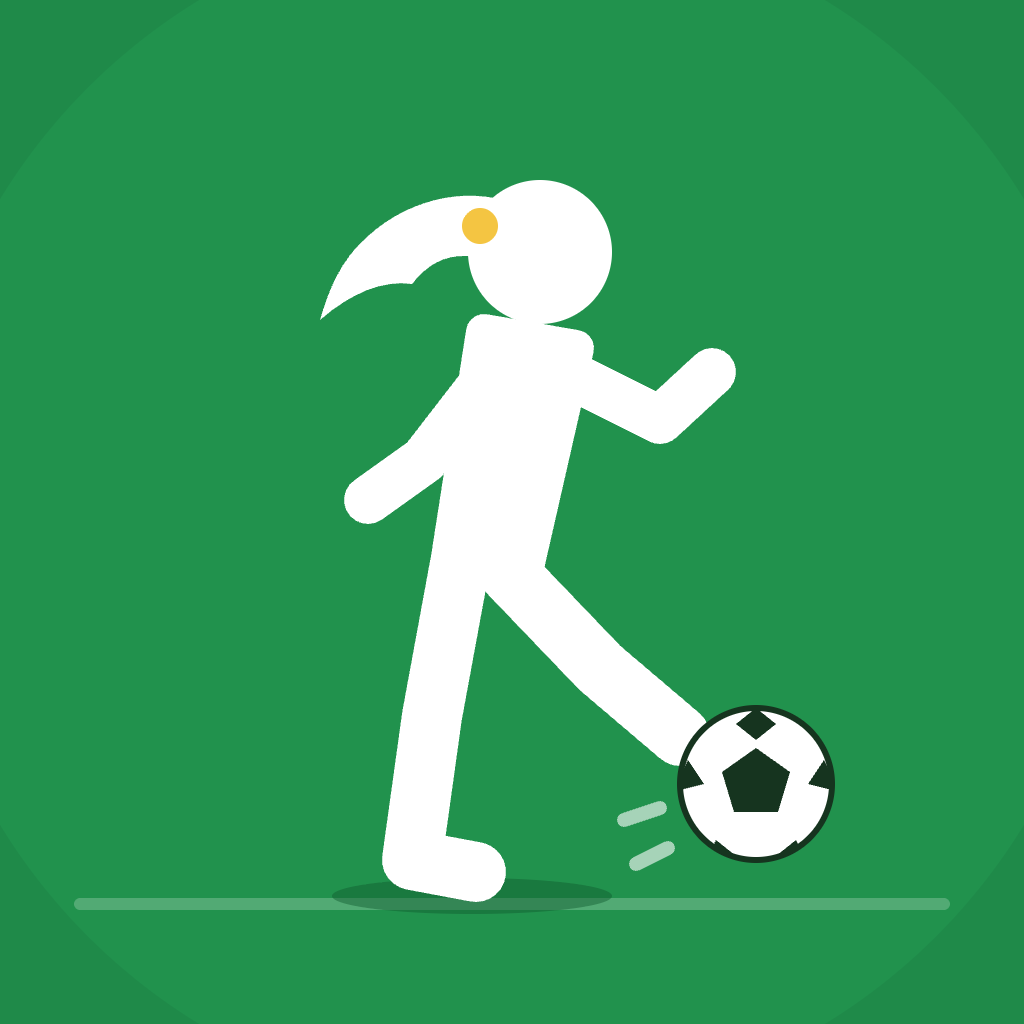
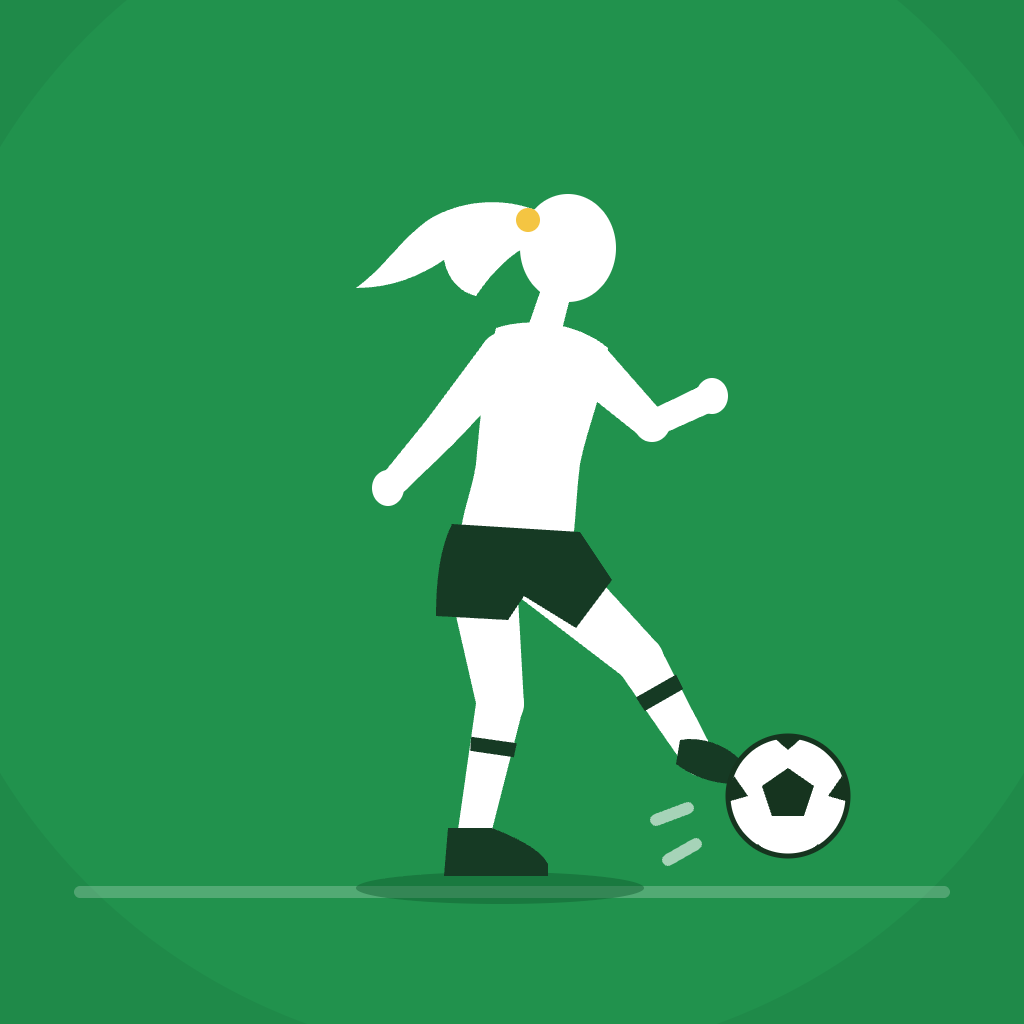
Mer naturtrogen logga: proportioner, matchställ och sparkställning
Logotypen genereras nu av branding/generate-logo.py med avsmalnande armar och ben,
tröja, mörka shorts, strumpor med rand och skor.

Changed region(s): [[0.0625, 0.1562, 0.9375, 0.9062], [0.5938, 0.2188, 0.625, 0.25]]

diff --git a/branding/generate-logo.py b/branding/generate-logo.py
@@ -1,0 +1,104 @@
+#!/usr/bin/env python3
+"""Generates branding/app-logo.svg: a girl with a ponytail kicking a football.
+
+Limbs are tapered shapes between joints, so the silhouette reads as a person rather
+than a stick figure. Adjust the joint positions below and re-run, then render with
+Chrome (see FIREBASE.md for the headless command used for the PNG).
+"""
+import math
+from pathlib import Path
+
+GREEN = "#1F8A49"
+FIGURE = "#FFFFFF"
+BOOT = "#163A24"
+HAIR_TIE = "#F4C542"
+
+
+def limb(points, widths, fill=FIGURE, joints=True):
+    """Tapered limb through `points` with a width per point, plus round joints."""
+    left, right = [], []
+    for i, (x, y) in enumerate(points):
+        if i == 0:
+            dx, dy = points[1][0] - x, points[1][1] - y
+        elif i == len(points) - 1:
+            dx, dy = x - points[i - 1][0], y - points[i - 1][1]
+        else:
+            dx, dy = points[i + 1][0] - points[i - 1][0], points[i + 1][1] - points[i - 1][1]
+        length = math.hypot(dx, dy)
+        nx, ny = -dy / length, dx / length
+        half = widths[i] / 2
+        left.append((x + nx * half, y + ny * half))
+        right.append((x - nx * half, y - ny * half))
+    outline = left + right[::-1]
+    d = "M" + " L".join(f"{x:.1f} {y:.1f}" for x, y in outline) + " Z"
+    caps = "".join(f'<circle cx="{x}" cy="{y}" r="{w / 2:.1f}" fill="{fill}"/>' for (x, y), w in zip(points, widths))
+    return f'<path d="{d}" fill="{fill}"/>' + (caps if joints else "")
+
+
+parts = []
+
+# Back arm, swung back and down for balance (drawn first so the torso overlaps it).
+parts.append(limb([(252, 178), (220, 216), (198, 240)], [24, 18, 14]))
+parts.append('<ellipse cx="194" cy="244" rx="8" ry="9" fill="#FFFFFF"/>')
+
+# Standing leg, knee slightly bent, sock and boot.
+parts.append(limb([(240, 280), (250, 352), (236, 422)], [36, 24, 16]))
+parts.append(limb([(247, 370), (246, 377)], [23, 22], fill=BOOT, joints=False))  # sock stripe
+parts.append(f'<path d="M224 414 L246 414 C256 418 270 424 274 432 L274 438 L222 438 Z" fill="{BOOT}"/>')
+
+# Torso: back, chest, waist and hips in a shirt.
+parts.append(
+    f'<path d="M248 164 C266 158 290 162 304 174 C302 196 294 212 290 232 '
+    f'C288 248 288 260 286 274 L230 272 C230 258 236 246 238 232 C240 210 242 186 248 164 Z" fill="{FIGURE}"/>'
+)
+
+# Kicking leg: thigh forward, knee bent, foot meeting the ball.
+parts.append(limb([(270, 284), (320, 330), (350, 380)], [36, 24, 16]))
+parts.append(limb([(328, 343), (332, 350)], [23, 22], fill=BOOT, joints=False))  # sock stripe
+parts.append(f'<path d="M340 370 C350 368 364 372 372 382 L368 392 C356 392 346 388 338 382 Z" fill="{BOOT}"/>')
+
+# Dark shorts over both hips, with leg openings following the thighs.
+parts.append(f'<path d="M226 262 L290 266 L306 290 L288 314 L262 298 L254 310 L218 308 C218 290 220 274 226 262 Z" fill="{BOOT}"/>')
+
+# Front arm, forward and slightly bent.
+parts.append(limb([(294, 182), (326, 212), (352, 200)], [24, 18, 14]))
+parts.append('<ellipse cx="356" cy="198" rx="8" ry="9" fill="#FFFFFF"/>')
+
+# Neck and head (about a seventh of her height).
+parts.append(limb([(272, 166), (278, 146)], [17, 15]))
+parts.append(f'<ellipse cx="284" cy="124" rx="24" ry="27" fill="{FIGURE}"/>')
+# Ponytail flowing back with the movement.
+parts.append(
+    f'<path d="M270 106 C252 98 230 100 214 110 C200 120 192 134 178 144 '
+    f'C196 144 210 138 222 130 C224 140 230 146 238 148 C246 136 256 126 266 122 Z" fill="{FIGURE}"/>'
+)
+parts.append(f'<circle cx="264" cy="110" r="6" fill="{HAIR_TIE}"/>')
+
+ball = """
+  <defs><clipPath id="ball"><circle cx="394" cy="398" r="30"/></clipPath></defs>
+  <circle cx="394" cy="398" r="30" fill="#FFFFFF"/>
+  <g clip-path="url(#ball)" fill="#16341F">
+    <path d="M394 384 L407 393 L402 408 L386 408 L381 393 Z"/>
+    <path d="M394 362 L402 368 L394 375 L386 368 Z"/>
+    <path d="M421 388 L428 402 L414 398 Z"/>
+    <path d="M367 388 L374 398 L360 402 Z"/>
+    <path d="M409 422 L414 432 L401 429 Z"/>
+    <path d="M379 422 L387 429 L374 432 Z"/>
+  </g>
+  <circle cx="394" cy="398" r="30" fill="none" stroke="#16341F" stroke-width="2.5"/>
+  <path d="M344 404 L328 410 M348 422 L334 430" stroke="#FFFFFF" stroke-opacity="0.6" stroke-width="6" stroke-linecap="round"/>
+"""
+
+svg = f"""<svg xmlns="http://www.w3.org/2000/svg" viewBox="0 0 512 512" width="1024" height="1024">
+  <!-- Matchreferat logo: a girl with a ponytail kicking a football. Original artwork, generated by generate-logo.py. -->
+  <rect width="512" height="512" fill="{GREEN}"/>
+  <circle cx="256" cy="230" r="300" fill="#24A055" opacity="0.35"/>
+  <path d="M40 446 H472" stroke="#FFFFFF" stroke-opacity="0.22" stroke-width="6" stroke-linecap="round"/>
+  <ellipse cx="250" cy="444" rx="72" ry="8" fill="#0F5A2E" opacity="0.45"/>
+  {''.join(parts)}
+  {ball}
+</svg>
+"""
+
+Path(__file__).with_name("app-logo.svg").write_text(svg)
+print("wrote app-logo.svg")
